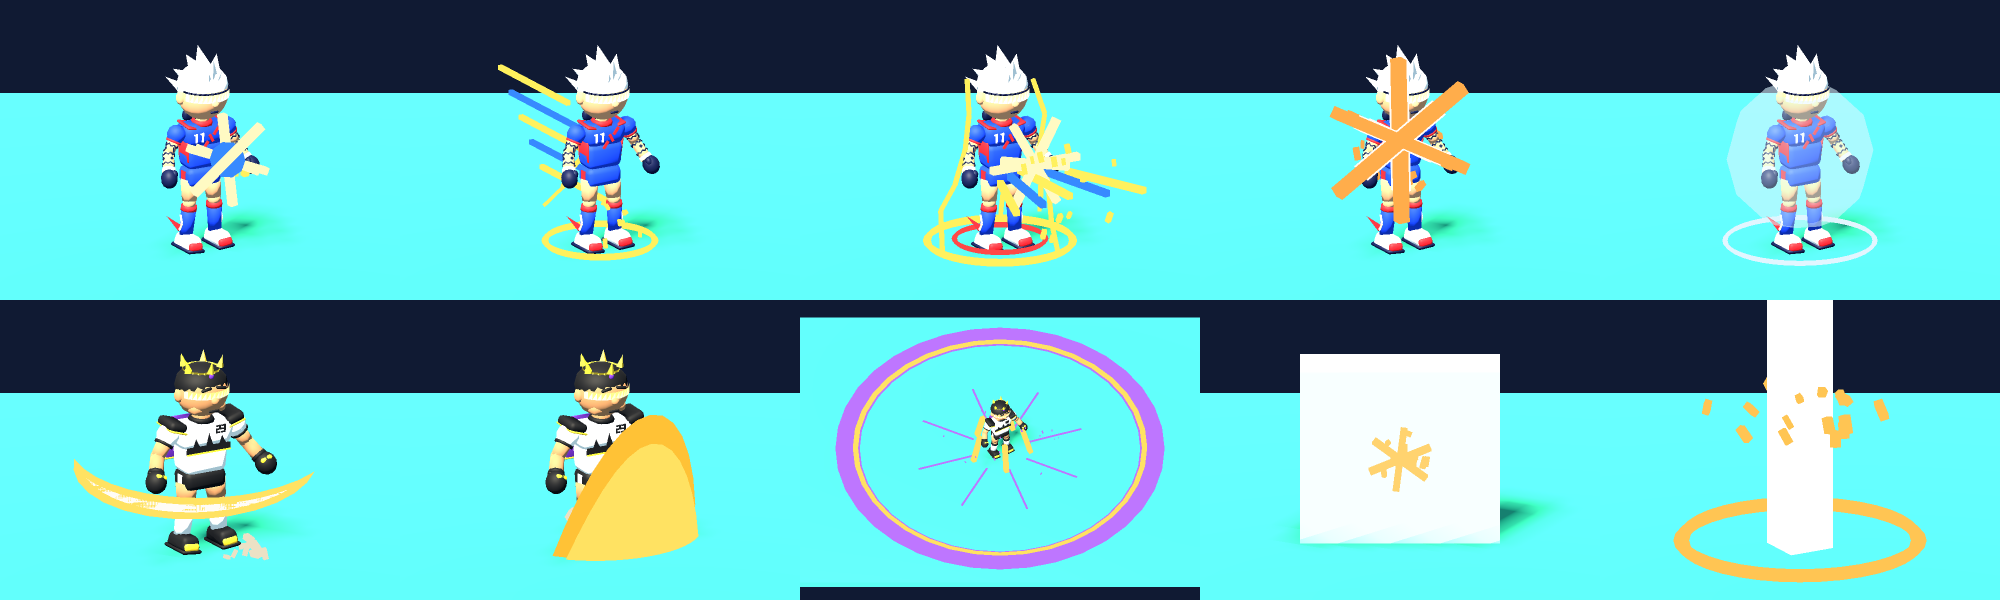
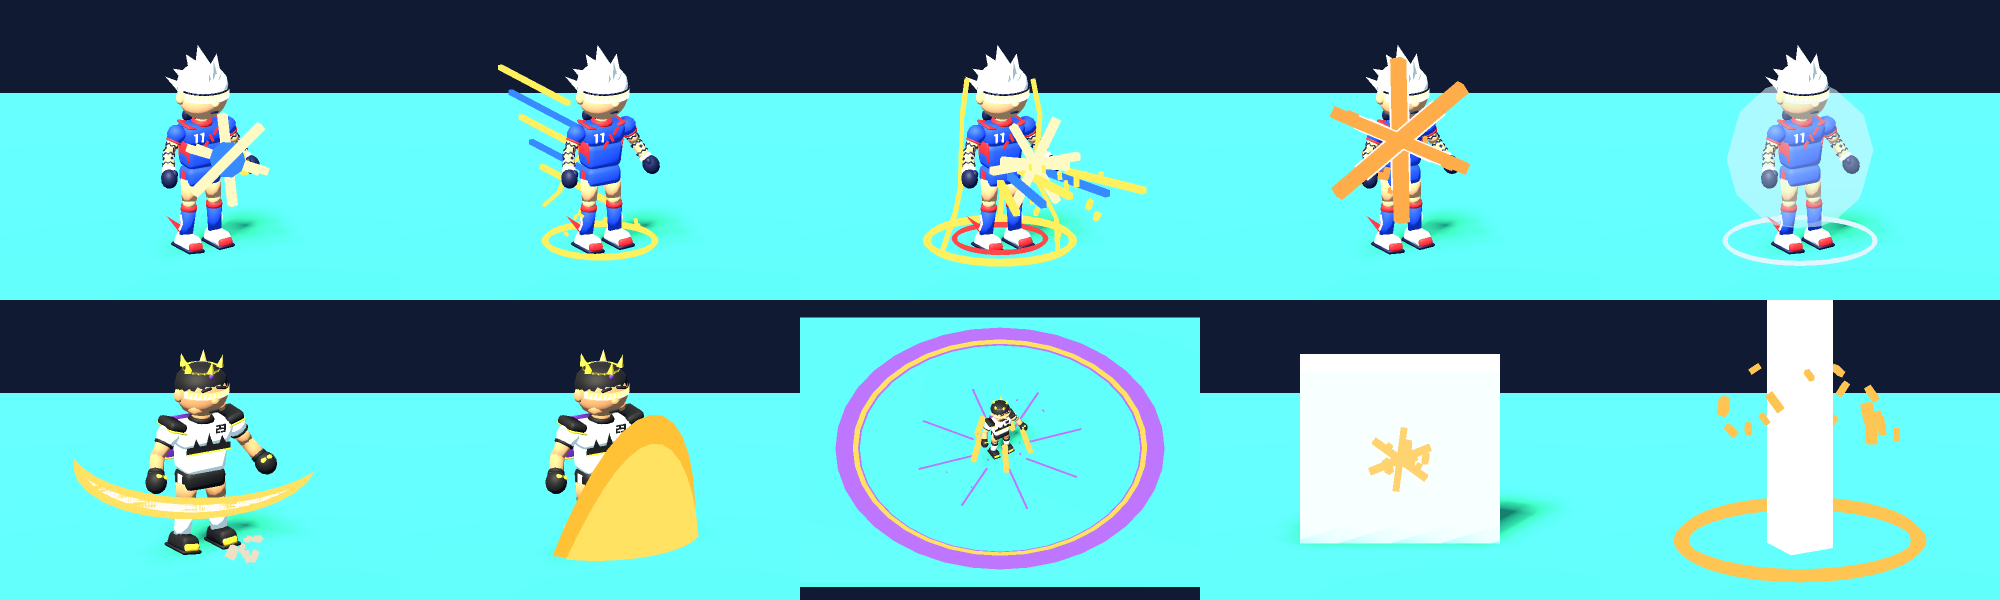
vfx: núcleo del proyectil de Turbo siempre visible desde la cámara de juego
Revisión técnica del PR #11: el halo azul (esfera opaca 1,25x casi
concéntrica) y los anillos verticales ocultaban el núcleo amarillo.
Ahora el halo es 0,62x y va detrás (cometa), los anillos giran en
horizontal por fuera de la silueta y el pulso solo agranda el núcleo.
Solo visual: collider, velocidad, daño y alcance intactos.

Nueva verificación art/lib/check_projectile_core.gd (píxeles de núcleo
en el 85 % del disco proyectado, mínimo 75 %): antes 50/0/36/0 %,
ahora 100 % en básico y súper, ALTO y BAJO, Mobile y Compatibility.
verify.py --pack: 192/192.

Claude-Session: https://claude.ai/code/session_01T7ZWuJnwA1LxFSLsMyLdfE

diff --git a/docs/arte/VFX.md b/docs/arte/VFX.md
@@ -24,8 +24,8 @@ No tocan daño, vida, recarga, movimiento, colisiones ni puntuación.
 | Evento (`kind`) | Cuándo | Lectura visual | Vida |
 |---|---|---|---|
 | `shot` | Disparo básico de Turbo | Destello amarillo y azul a la altura del socket `Muzzle`, chispas hacia el frente; se dibuja por encima del cuerpo | 0,2 s |
-| proyectil | Vuelo del disparo | Núcleo amarillo claro, halo azul, anillo giratorio y estela en rayo zigzag que parpadea | vuelo |
-| proyectil súper | Bombazo Turbo | Núcleo doble de tamaño, dos anillos (amarillo y rojo) y estela gruesa | vuelo |
+| proyectil | Vuelo del disparo | Núcleo amarillo claro siempre visible, halo azul más pequeño detrás (cabeza de cometa), anillo horizontal giratorio y estela en rayo zigzag | vuelo |
+| proyectil súper | Bombazo Turbo | Núcleo doble de tamaño, dos anillos horizontales (amarillo y rojo) por fuera de su silueta y estela gruesa | vuelo |
 | `turbo_sprint` | Turbo Sprint | Estelas de velocidad azul y amarilla que siguen al héroe, rayo vivo y anillo eléctrico en el punto de partida | 0,45 s |
 | `turbo_super` | Lanzar Bombazo | Anillos de carga, rayos verticales, destello grande y abanico de esquirlas | 0,5 s |
 | `melee` | Golpe de Rey | Arco dorado que barre de derecha a izquierda y polvo | 0,3 s |
@@ -39,6 +39,47 @@ No tocan daño, vida, recarga, movimiento, colisiones ni puntuación.
 Los alias heredados `sprint` y `charge` siguen funcionando. Las formas y los
 colores combinan con los héroes (`docs/arte/HEROES.md`): Turbo eléctrico
 amarillo, azul y rojo; Rey dorado, ámbar y violeta.
+
+## Corrección tras la revisión técnica: visibilidad del núcleo del proyectil
+
+En la revisión del PR #11 se detectó que el halo azul de `ProjectileVisual` envolvía
+y ocultaba el núcleo amarillo, sobre todo en la súper. Causas:
+
+- El halo era una esfera opaca 1,25 veces más grande que el núcleo y casi concéntrica.
+- Los anillos giraban en un plano vertical, así que su arco superior cruzaba el
+  núcleo como una franja.
+- El pulso del núcleo lo encogía hasta un 12 %.
+
+Corrección, solo visual:
+
+- El halo ahora mide 0,62 veces el núcleo y va detrás de él (a 1,35 radios).
+- Los anillos giran en horizontal con radio de 1,75 y 2,1 núcleos, por fuera de la
+  silueta del núcleo vista desde la cámara inclinada.
+- El pulso solo agranda el núcleo (entre ×1,00 y ×1,08), así que nunca se ve menor
+  que el radio del collider.
+
+`projectile.gd` no cambia: collider, velocidad, daño y alcance quedan intactos.
+
+Verificación medible `art/lib/check_projectile_core.gd`: dispara desde la arena A,
+proyecta el centro del proyectil a la cámara de juego y cuenta los píxeles con color
+de núcleo dentro del 85 % de su disco proyectado. Exige al menos un 75 %.
+
+| Caso | Antes | Después (Mobile) | Después (Compatibility) |
+|---|---|---|---|
+| Básico, ALTO | 50 % (FALLA) | 100 % | 100 % |
+| Súper, ALTO | **0 %** (FALLA) | 100 % | 100 % |
+| Básico, BAJO | 36 % (FALLA) | 100 % | 100 % |
+| Súper, BAJO | **0 %** (FALLA) | 100 % | 100 % |
+
+Capturas: [antes y después, recortes ×4](../captures/vfx-v1/proyectil-antes-despues.png) ·
+arena completa con [básico ALTO](../captures/vfx-v1/mobile-arena-proyectil-basico-alto.png),
+[súper ALTO](../captures/vfx-v1/mobile-arena-proyectil-super-alto.png) y
+[súper BAJO](../captures/vfx-v1/mobile-arena-proyectil-super-bajo.png).
+
+```bash
+xvfb-run -a -s "-screen 0 1280x720x24" godot --path game --audio-driver Dummy --fixed-fps 60 \
+  --script ../art/lib/check_projectile_core.gd -- --output=/tmp/nucleo [--low]
+```
 
 ## Presupuesto y perfiles
 
